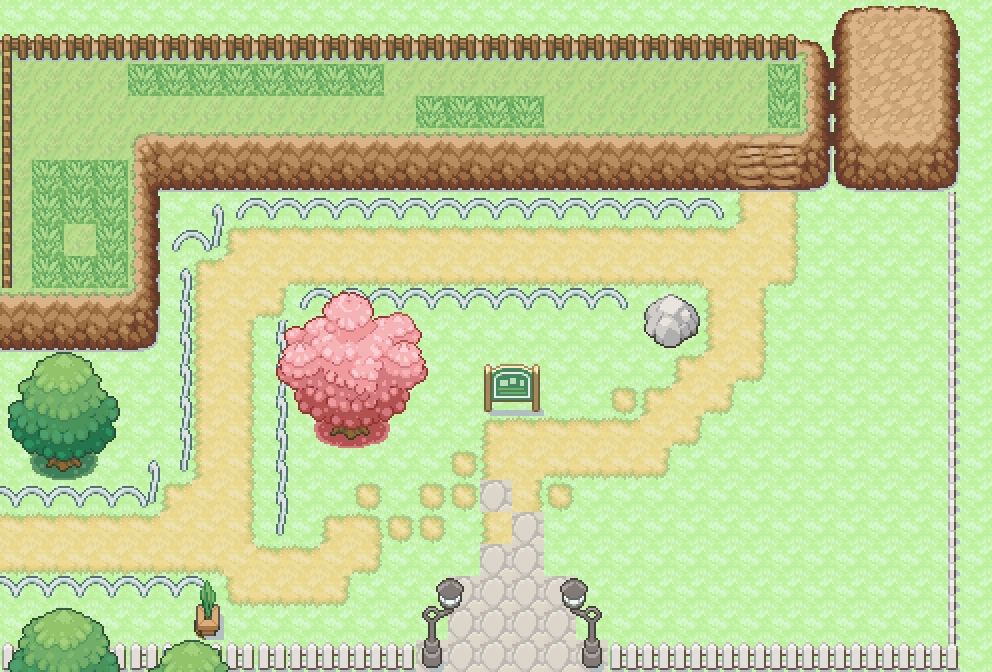
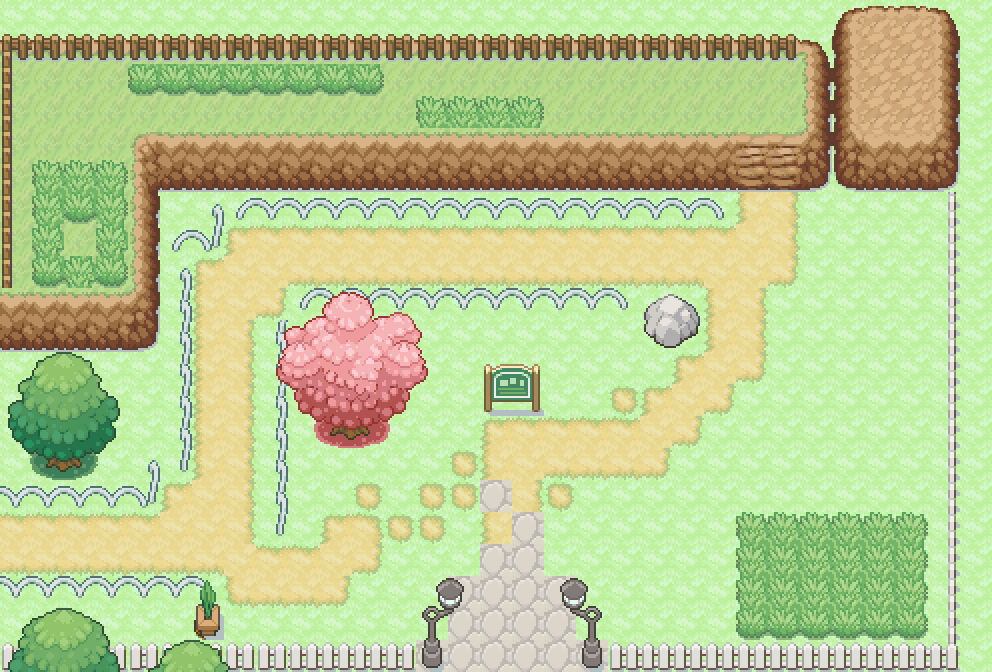
more collision and bug fixes

diff --git a/eevee9/src/Game.cpp b/eevee9/src/Game.cpp
@@ -161,102 +161,109 @@ void Game::randomBattle(bool grass) {
    
 }
 void Game::CreateShapes(int mapId) {
-
-    if(mapId == 0)
+   
+    if(mapId == 0 )
     {
-        
-        for (size_t i = 0; i < this->map2.size(); i++)
+        while(this->map2.size() != 0)
         {
-            while (this->map2[i]->size() != 0) {
-                this->map2[i]->pop_back();
+            for (size_t i = 0; i < this->map2.size(); i++)
+            {
+                std::cout << "je delete";
+                while (this->map2[i]->size() != 0) {
+                    this->map2[i]->pop_back();
+                };
+                
             }
+            this->map2.pop_back();
         }
+        if (this->map1.size() == 0) {
+            sf::RectangleShape wall1(sf::Vector2f(992, 75));
+            wall1.setPosition(0, 0);
+            wall1.setFillColor(sf::Color::Transparent);
+            this->walls.push_back(wall1);
 
-        sf::RectangleShape wall1(sf::Vector2f(992, 75));
-        wall1.setPosition(0, 0);
-        wall1.setFillColor(sf::Color::Transparent);
-        this->walls.push_back(wall1);
+            sf::RectangleShape wall2(sf::Vector2f(75, 480));
+            wall2.setPosition(940, 0);
+            wall2.setFillColor(sf::Color::Transparent);
+            this->walls.push_back(wall2);
 
-        sf::RectangleShape wall2(sf::Vector2f(75, 480));
-        wall2.setPosition(940, 0);
-        wall2.setFillColor(sf::Color::Transparent);
-        this->walls.push_back(wall2);
+            sf::RectangleShape wall3(sf::Vector2f(75, 100));
+            wall3.setPosition(940, 585);
+            wall3.setFillColor(sf::Color::Transparent);
+            this->walls.push_back(wall3);
 
-        sf::RectangleShape wall3(sf::Vector2f(75, 100));
-        wall3.setPosition(940, 585);
-        wall3.setFillColor(sf::Color::Transparent);
-        this->walls.push_back(wall3);
+            sf::RectangleShape wall4(sf::Vector2f(992, 32));
+            wall4.setPosition(0, 650);
+            wall4.setFillColor(sf::Color::Transparent);
+            this->walls.push_back(wall4);
 
-        sf::RectangleShape wall4(sf::Vector2f(992, 32));
-        wall4.setPosition(0, 650);
-        wall4.setFillColor(sf::Color::Transparent);
-        this->walls.push_back(wall4);
+            sf::RectangleShape wall5(sf::Vector2f(180, 240));
+            wall5.setPosition(0, 0);
+            wall5.setFillColor(sf::Color::Transparent);
+            this->walls.push_back(wall5);
 
-        sf::RectangleShape wall5(sf::Vector2f(180, 240));
-        wall5.setPosition(0, 0);
-        wall5.setFillColor(sf::Color::Transparent);
-        this->walls.push_back(wall5);
+            sf::RectangleShape wall6(sf::Vector2f(242, 190));
+            wall6.setPosition(0, 237);
+            wall6.setFillColor(sf::Color::Transparent);
+            this->walls.push_back(wall6);
 
-        sf::RectangleShape wall6(sf::Vector2f(242, 190));
-        wall6.setPosition(0, 237);
-        wall6.setFillColor(sf::Color::Transparent);
-        this->walls.push_back(wall6);
+            sf::RectangleShape wall7(sf::Vector2f(175, 175));
+            wall7.setPosition(0, 412);
+            wall7.setFillColor(sf::Color::Transparent);
+            this->walls.push_back(wall7);
 
-        sf::RectangleShape wall7(sf::Vector2f(175, 175));
-        wall7.setPosition(0, 412);
-        wall7.setFillColor(sf::Color::Transparent);
-        this->walls.push_back(wall7);
+            sf::RectangleShape wall8(sf::Vector2f(1, 100));
+            wall8.setPosition(250, 530);
+            wall8.setFillColor(sf::Color::Transparent);
+            this->walls.push_back(wall8);
 
-        sf::RectangleShape wall8(sf::Vector2f(1, 100));
-        wall8.setPosition(250, 530);
-        wall8.setFillColor(sf::Color::Transparent);
-        this->walls.push_back(wall8);
+            sf::RectangleShape wall9(sf::Vector2f(125, 88));
+            wall9.setPosition(500, 394);
+            wall9.setFillColor(sf::Color::Transparent);
+            this->walls.push_back(wall9);
 
-        sf::RectangleShape wall9(sf::Vector2f(125, 88));
-        wall9.setPosition(500, 394);
-        wall9.setFillColor(sf::Color::Transparent);
-        this->walls.push_back(wall9);
+            sf::RectangleShape wall10(sf::Vector2f(1, 110));
+            wall10.setPosition(342, 430);
+            wall10.setFillColor(sf::Color::Transparent);
+            this->walls.push_back(wall10);
 
-        sf::RectangleShape wall10(sf::Vector2f(1, 110));
-        wall10.setPosition(342, 430);
-        wall10.setFillColor(sf::Color::Transparent);
-        this->walls.push_back(wall10);
+            sf::RectangleShape wall11(sf::Vector2f(80, 1));
+            wall11.setPosition(242, 426);
+            wall11.setFillColor(sf::Color::Transparent);
+            this->walls.push_back(wall11);
 
-        sf::RectangleShape wall11(sf::Vector2f(80, 1));
-        wall11.setPosition(242, 426);
-        wall11.setFillColor(sf::Color::Transparent);
-        this->walls.push_back(wall11);
+            sf::RectangleShape wall12(sf::Vector2f(45, 5));
+            wall12.setPosition(860, 432);
+            wall12.setFillColor(sf::Color::Transparent);
+            this->walls.push_back(wall12);
 
-        sf::RectangleShape wall12(sf::Vector2f(45, 5));
-        wall12.setPosition(860, 432);
-        wall12.setFillColor(sf::Color::Transparent);
-        this->walls.push_back(wall12);
+            sf::RectangleShape grass(sf::Vector2f(620, 90));
+            grass.setPosition(293, 96);
+            grass.setFillColor(sf::Color::Transparent);
+            this->grass.push_back(grass);
 
-        sf::RectangleShape grass(sf::Vector2f(620, 90));
-        grass.setPosition(293, 96);
-        grass.setFillColor(sf::Color::Transparent);
-        this->grass.push_back(grass);
+            sf::RectangleShape grass2(sf::Vector2f(305, 56));
+            grass2.setPosition(618, 192);
+            grass2.setFillColor(sf::Color::Transparent);
+            this->grass.push_back(grass2);
 
-        sf::RectangleShape grass2(sf::Vector2f(305, 56));
-        grass2.setPosition(618, 192);
-        grass2.setFillColor(sf::Color::Transparent);
-        this->grass.push_back(grass2);
+            sf::RectangleShape grass3(sf::Vector2f(84, 150));
+            grass3.setPosition(842, 256);
+            grass3.setFillColor(sf::Color::Transparent);
+            this->grass.push_back(grass3);
 
-        sf::RectangleShape grass3(sf::Vector2f(84, 150));
-        grass3.setPosition(842, 256);
-        grass3.setFillColor(sf::Color::Transparent);
-        this->grass.push_back(grass3);
+            sf::RectangleShape grass4(sf::Vector2f(50, 200));
+            grass4.setPosition(262, 200);
+            grass4.setFillColor(sf::Color::Transparent);
+            this->grass.push_back(grass4);
 
-        sf::RectangleShape grass4(sf::Vector2f(50, 200));
-        grass4.setPosition(262, 200);
-        grass4.setFillColor(sf::Color::Transparent);
-        this->grass.push_back(grass4);
-
-        sf::RectangleShape tp(sf::Vector2f(50, 64));
-        tp.setPosition(950, 510);
-        tp.setFillColor(sf::Color::Transparent);
-        this->tp.push_back(tp);
-        if(this->map1.size() < 3)
+            sf::RectangleShape tp(sf::Vector2f(50, 64));
+            tp.setPosition(950, 510);
+            tp.setFillColor(sf::Color::Transparent);
+            this->tp.push_back(tp);
+        }
+                       
+        if (this->map1.size() < 3)
         {
             this->map1.push_back(&this->walls);
             this->map1.push_back(&this->grass);
@@ -265,23 +272,106 @@ void Game::CreateShapes(int mapId) {
 
     }
     if (mapId == 1) {
-
-        for (size_t i = 0; i < this->map1.size(); i++)
+        while (this->map1.size() != 0)
         {
-            while (this->map1[i]->size() != 0) {
-                this->map1[i]->pop_back();
+            for (size_t i = 0; i < this->map1.size(); i++)
+            {
+                while (this->map1[i]->size() != 0) {
+                    this->map1[i]->pop_back();
+                };
+
             }
+            this->map1.pop_back();
+        }
+        if (this->map2.size() == 0) {
+            std::cout << "map2 created" << std::endl;
+            sf::RectangleShape xall(sf::Vector2f(992, 30));
+            xall.setPosition(0, 0);
+            xall.setFillColor(sf::Color::Red);
+            this->walls.push_back(xall);
+
+            sf::RectangleShape xall2(sf::Vector2f(20, 672));
+            xall2.setPosition(956, 0);
+            xall2.setFillColor(sf::Color::Red);
+            this->walls.push_back(xall2);
+
+            sf::RectangleShape xall3(sf::Vector2f(350, 5));
+            xall3.setPosition(610, 650);
+            xall3.setFillColor(sf::Color::Red);
+            this->walls.push_back(xall3);
+
+            sf::RectangleShape xall4(sf::Vector2f(200, 5));
+            xall4.setPosition(215, 650);
+            xall4.setFillColor(sf::Color::Red);
+            this->walls.push_back(xall4);
+
+            sf::RectangleShape xall5(sf::Vector2f(200, 150));
+            xall5.setPosition(0, 585);
+            xall5.setFillColor(sf::Color::Red);
+            this->walls.push_back(xall5);
+
+            sf::RectangleShape xall6(sf::Vector2f(144, 180));
+            xall6.setPosition(0, 304);
+            xall6.setFillColor(sf::Color::Red);
+            this->walls.push_back(xall6);
+
+            sf::RectangleShape xall7(sf::Vector2f(2, 265));
+            xall7.setPosition(0, 30);
+            xall7.setFillColor(sf::Color::Red);
+            this->walls.push_back(xall7);
+
+            sf::RectangleShape xall8(sf::Vector2f(28, 310));
+            xall8.setPosition(150, 150);
+            xall8.setFillColor(sf::Color::Red);
+            this->walls.push_back(xall8);
+
+            sf::RectangleShape xall9(sf::Vector2f(535, 50));
+            xall9.setPosition(170, 140);
+            xall9.setFillColor(sf::Color::Red);
+            this->walls.push_back(xall9);
+
+            sf::RectangleShape xall10(sf::Vector2f(10, 190));
+            xall10.setPosition(295, 320);
+            xall10.setFillColor(sf::Color::Red);
+            this->walls.push_back(xall10);
+
+            sf::RectangleShape xall11(sf::Vector2f(375, 10));
+            xall11.setPosition(302, 294);
+            xall11.setFillColor(sf::Color::Red);
+            this->walls.push_back(xall11);
+
+            sf::RectangleShape xall12(sf::Vector2f(150, 160));
+            xall12.setPosition(823, 0);
+            xall12.setFillColor(sf::Color::Red);
+            this->walls.push_back(xall12);
+
+            sf::RectangleShape xall13(sf::Vector2f(18, 10));
+            xall13.setPosition(502, 374);
+            xall13.setFillColor(sf::Color::Red);
+            this->walls.push_back(xall13);
+
+            /*sf::RectangleShape xall14(sf::Vector2f(992, 75));
+            xall14.setPosition(0, 0);
+            xall14.setFillColor(sf::Color::Red);
+            this->walls.push_back(xall14);
+
+            sf::RectangleShape xall15(sf::Vector2f(992, 75));
+            xall15.setPosition(0, 0);
+            xall15.setFillColor(sf::Color::Red);
+            this->walls.push_back(xall15);*/
+
+
+            sf::RectangleShape tp(sf::Vector2f(50, 64));
+            tp.setPosition(-25, 510);
+            tp.setFillColor(sf::Color::Transparent);
+            this->tp.push_back(tp);
         }
 
-
-        sf::RectangleShape tp(sf::Vector2f(50, 64));
-        tp.setPosition(-25, 510);
-        tp.setFillColor(sf::Color::Transparent);
-        this->tp.push_back(tp);
-
-        if (this->map2.size() < 1)
+        if (this->map2.size() < 3)
         {
-            this->map1.push_back(&this->tp);
+            this->map2.push_back(&this->walls);
+            this->map2.push_back(&this->grass);
+            this->map2.push_back(&this->tp);
         }
     }
 

diff --git a/eevee9/main.cpp b/eevee9/main.cpp
@@ -67,7 +67,7 @@ int main()
             game.clear();
             interface.map();
             game.CreateShapes(interface.getMapId());
-            //game.drawtile();
+            game.drawtile();
             game.draw(player);
             game.display();
         }
